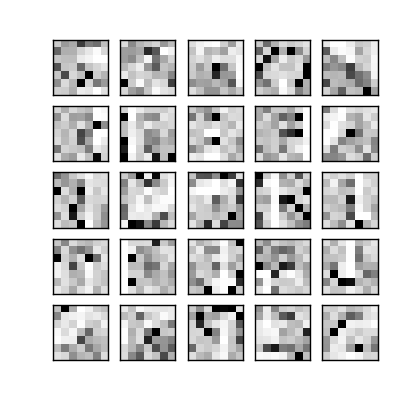
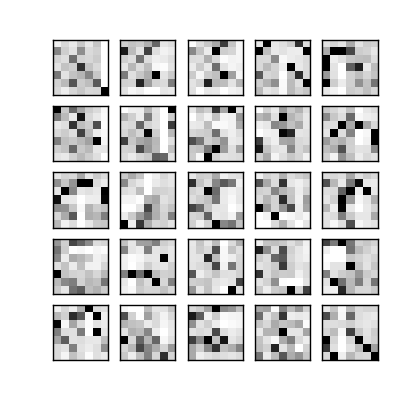
Added some convenience functions for visualizing training progress

Changed region(s): [[0.1238, 0.27, 0.8976, 0.57], [0.1238, 0.6, 0.8976, 0.9], [0.1238, 0.09, 0.8976, 0.24]]

diff --git a/html/template.html b/html/template.html
@@ -1,0 +1,25 @@
+<html>
+<head>
+<title>{{ title }}</title>
+<script   src="https://code.jquery.com/jquery-2.2.2.min.js"   integrity="sha256-36cp2Co+/62rEAAYHLmRCPIych47CvdM+uTBJwSzWjI="   crossorigin="anonymous"></script>
+</head>
+<body>
+<h1>Sample of Data</h1>
+<img src="sample.png">
+<hr/>
+<h1>Learning Curves</h1>
+<img id="learning" src="learning-curves.png">
+<hr/>
+<h1>Learned Filters</h1>
+<img id="filters" src="filters.png">
+<hr/>
+</body>
+<script>
+    setInterval(function(){
+    $("#learning").attr("src", "learning-curves.png?"+new Date().getTime());
+},500);
+setInterval(function(){
+    $("#filters").attr("src", "filters.png?"+new Date().getTime());
+},500);
+</script>
+</html>

diff --git a/train_net.py b/train_net.py
@@ -11,6 +11,8 @@ import numpy as np
 import json
 import itertools
 import matplotlib.pyplot as plt
+import webbrowser
+
 
 def get_data(file, noise_amt=0.1):
     data_file = h5py.File(file, 'r')
@@ -57,7 +59,7 @@ def plot_data_sample(data, directory, n=64):
     num_samples = n
     grid_size = int(np.sqrt(n))
     plt.clf()
-    plt.figure(figsize=(4.2, 4))
+    plt.figure(figsize=(8.2, 8))
     plt.hold(True)
     for i,j in itertools.product(range(grid_size), range(grid_size)):
         ax = plt.subplot(grid_size, grid_size, grid_size*i + j + 1)
@@ -123,6 +125,7 @@ def make_plots(hist, model, directory, name):
     plt.subplot(1, 2, 1)
     plt.plot(x_axis, acc, label='Training Accuracy')
     plt.plot(x_axis, val_acc, label='Validation Accuracy')
+    plt.ylim([0, 1.0])
     plt.legend(loc='best')
 
     plt.subplot(1, 2, 2)
@@ -134,8 +137,12 @@ def make_plots(hist, model, directory, name):
     
 class HistoryUpdate(History):
     def __init__(self, location, name):
+        import shutil
         self.location = location
         self.name = name
+        if not os.path.exists(self.location):
+            os.makedirs(self.location)
+            shutil.copy('../html/template.html', self.location)
 
     def on_epoch_end(self, epoch, logs={}):
         History.on_epoch_end(self, epoch, logs)
@@ -146,10 +153,11 @@ def dropout_experiments():
 
     experiments = [0.2, 0.4, 0.6, 0.8]
     names = ['dropout-0.2', 'dropout-0.4', 'dropout-0.6', 'dropout-0.8']
-    X_train, y_train, X_test, y_test = get_data('./data/letters.hdf5', noise_amt=0.1)
+    X_train, y_train, X_test, y_test = get_data('./data/letters.hdf5', noise_amt=0.05)
     for name, experiment_params in reversed(zip(names, experiments)):
         dir = os.path.join(os.getcwd(), 'results', 'dropout_alpha_25_noisy', name)
         history = HistoryUpdate(dir, name)
+        webbrowser.open(os.path.join(dir, 'template.html'))
         plot_data_sample(X_train, dir, 64)
         print("Running experiment {name}".format(name=name))
         early_stopping = EarlyStopping(monitor='val_loss', patience=10)

diff --git a/util/gui.py b/util/gui.py
@@ -106,5 +106,5 @@ class DataViewer(object):
          mainloop()
 
 if __name__ == "__main__":
-    g = DataViewer(*image_getter('./data/letters.hdf5'), rows=8, cols=16)
+    g = DataViewer(*image_getter('../data/letters.hdf5'), rows=8, cols=16)
     g.run()
